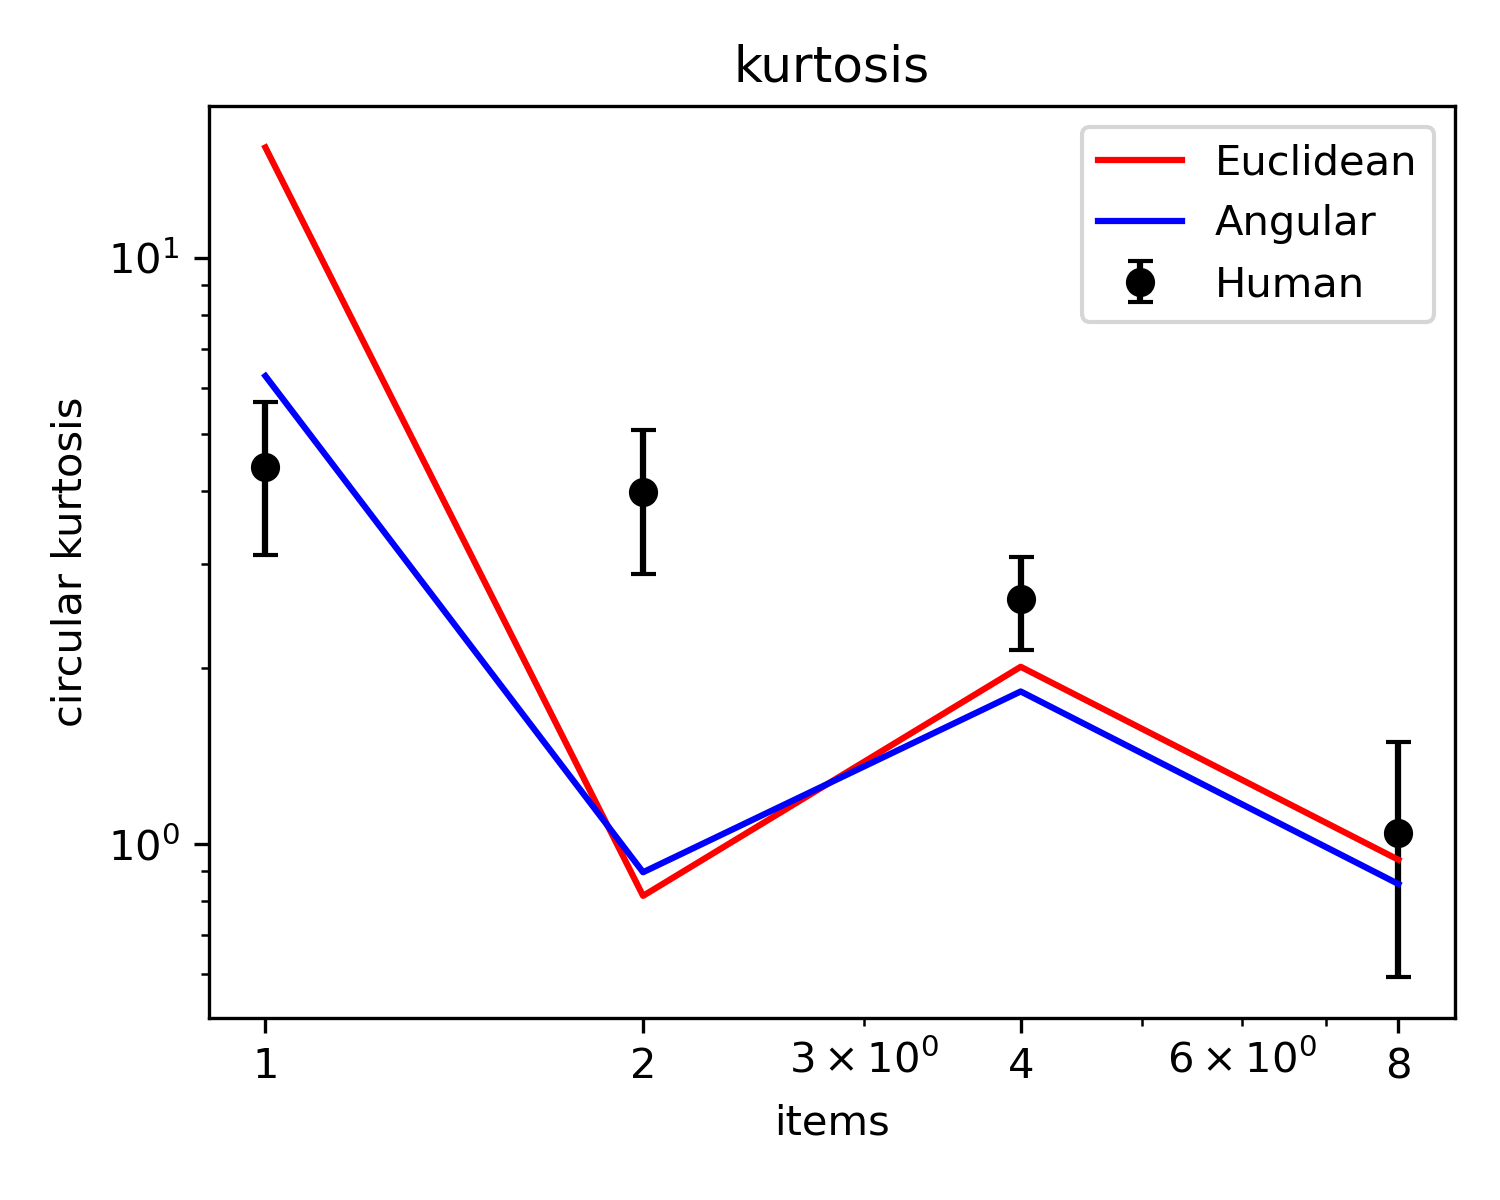
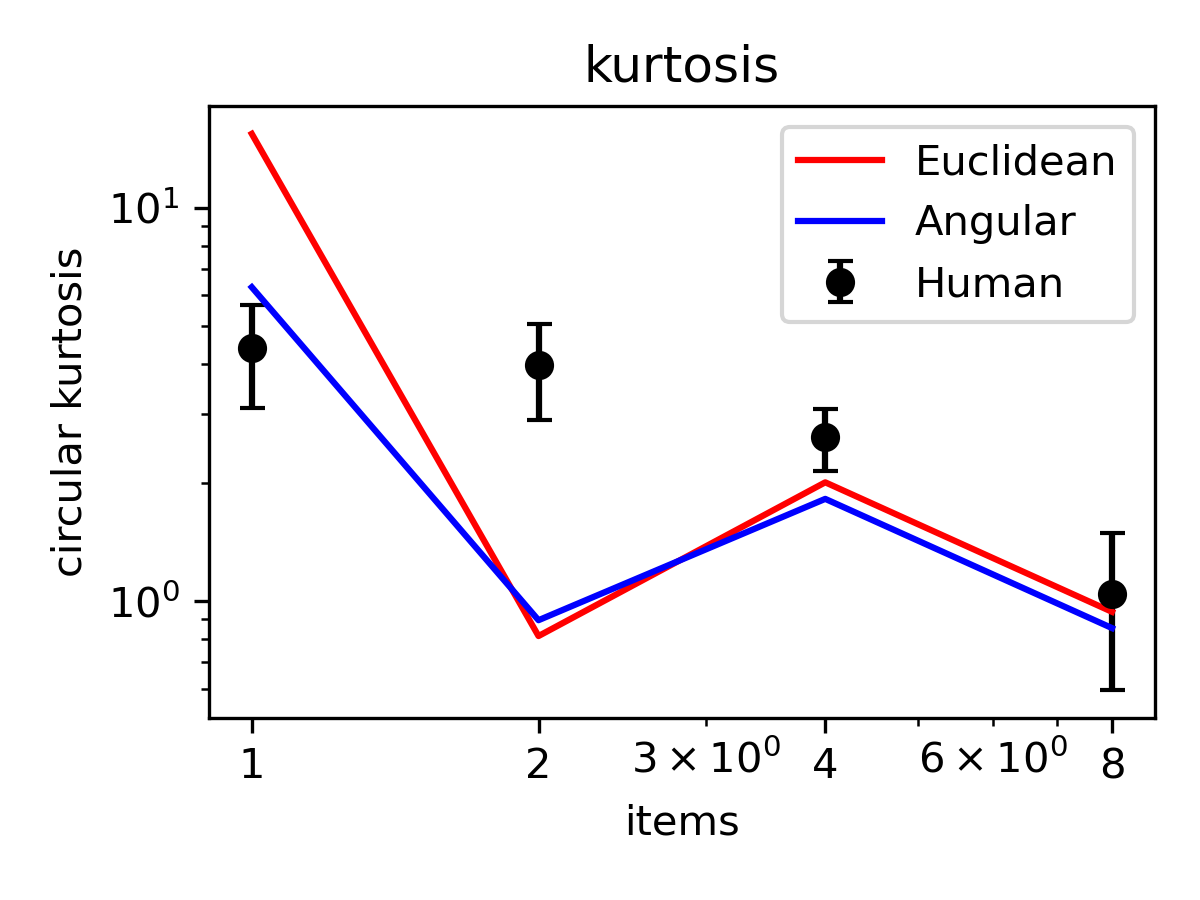
update kurt plot

Changed region(s): [[0.0617, 0.0311, 0.9867, 0.9644], [0.0308, 0.28, 0.0925, 0.6533], [0.4008, 0.3422, 0.4625, 0.4978]]

diff --git a/final_reports/error_dist.py b/final_reports/error_dist.py
@@ -60,7 +60,7 @@ fig1.tight_layout()
 fig1.savefig(var_png, dpi=300)
 
 # Plot: Circular Kurtosis
-fig2, ax2 = plt.subplots(figsize=(5, 4))
+fig2, ax2 = plt.subplots(figsize=(4, 3))
 ax2.errorbar(item_num, human_kurtoses, yerr=human_kurt_se, fmt='ko', capsize=3, label="Human")
 for kurtoses, label, color in zip(model_kurtoses_list, model_labels, model_colors):
     ax2.plot(item_num, kurtoses, color=color, label=label)
